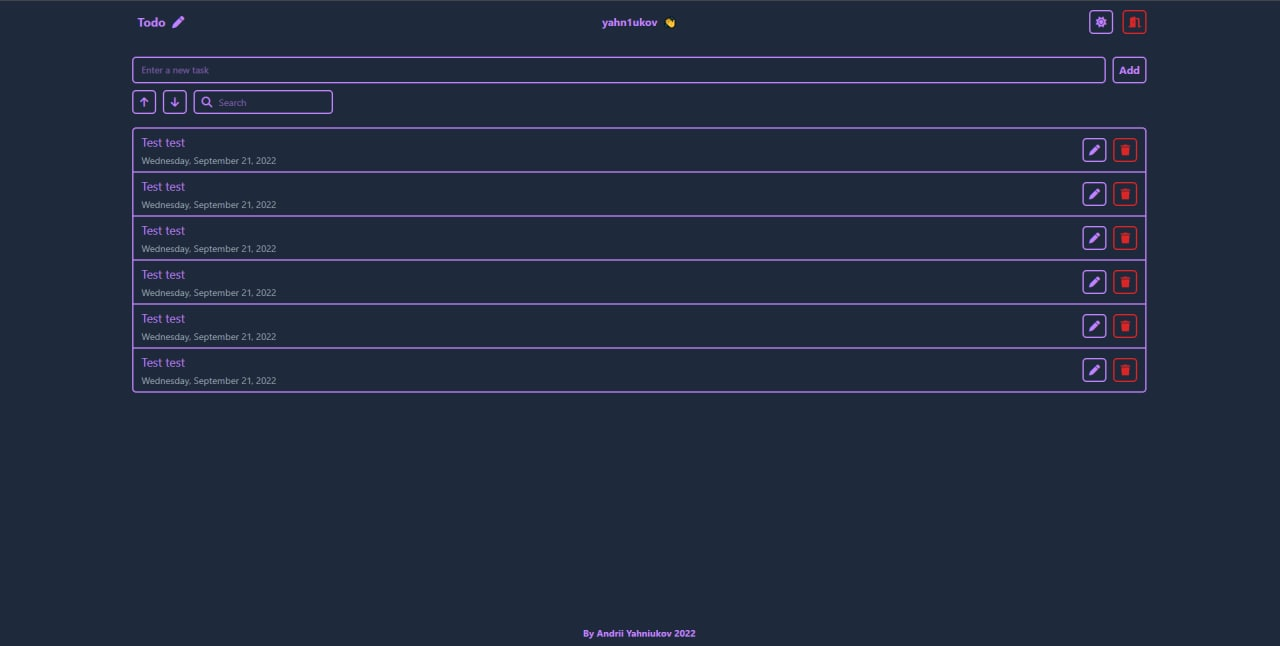
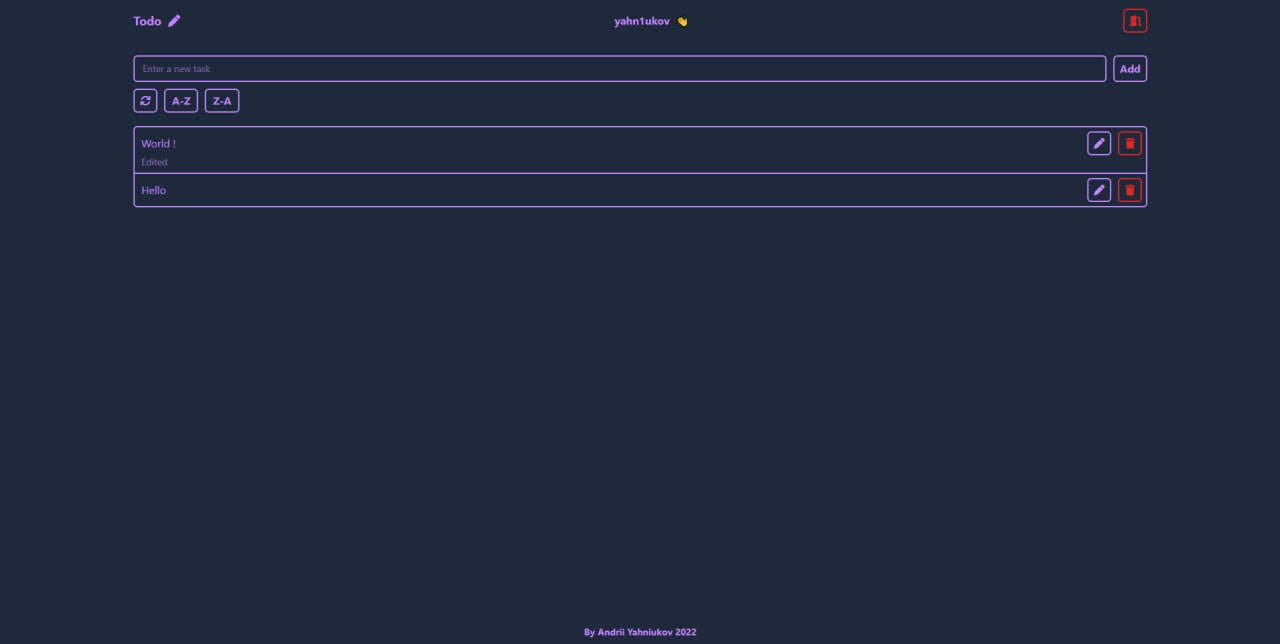
refactor: code review

Changed region(s): [[0.0938, 0.0, 0.9062, 0.6211], [0.4375, 0.9627, 0.5625, 0.9938]]

diff --git a/src/slices/todo.slice.ts b/src/slices/todo.slice.ts
@@ -21,28 +21,35 @@ const todoSlice = createSlice({
             state.todo = action.payload;
             state.error = null;
         },
+        todoSortedByAsc: (state, action) => {
+            state.loading = false;
+            state.todo = action.payload;
+            state.error = null;
+        },
+        todoSortedByDesc: (state, action) => {
+            state.loading = false;
+            state.todo = action.payload;
+            state.error = null;
+        },
         todoFetchedError: (state, action) => {
             state.loading = false;
             state.todo = [];
             state.error = action.payload;
         },
-        todoSortedByDesc: (state, action) => {
-            state.loading = false;
-            state.todo = action.payload.reverse();
-            state.error = null;
-        },
-        todoSearched: (state, aciton) => {
-
-        },
         todoCreated: (state, action) => {
             state.todo.push(action.payload);
         },
         todoEdited: (state, action) => {
-            state.todo = [
-                ...state.todo,
-                state.todo.find(t => t.id === action.payload.id)!.text = action.payload.text,
-                state.todo.find(t => t.id === action.payload.id)!.isEdited = action.payload.isEdited
-            ];
+            state.todo = state.todo.map(t => {
+                if (t.id === action.payload.id) {
+                    return {
+                        ...t,
+                        text: action.payload.text,
+                        isEdited: action.payload.isEdited
+                    }
+                }
+                return t;
+            });
         },
         todoDeleted: (state, action) => {
             state.todo = state.todo.filter(t => t.id !== action.payload);
@@ -57,8 +64,8 @@ export const {
     todoFetching,
     todoFetchedSuccess,
     todoFetchedError,
+    todoSortedByAsc,
     todoSortedByDesc,
-    todoSearched,
     todoCreated,
     todoEdited,
     todoDeleted

diff --git a/src/actions/todo.action.ts b/src/actions/todo.action.ts
@@ -1,5 +1,5 @@
 import { Dispatch } from "redux";
-import { todoFetching, todoFetchedSuccess, todoFetchedError } from "../slices/todo.slice";
+import { todoFetching, todoFetchedSuccess, todoFetchedError, todoSortedByAsc, todoSortedByDesc } from "../slices/todo.slice";
 import { TodoResponse } from '../types/todo';
 import { ErrorResponse } from '../types/error';
 
@@ -12,11 +12,20 @@ export const fetchTodo = (request: any, token: string) => async (dispatch: Dispa
         .catch((error: ErrorResponse) => dispatch(todoFetchedError(error)))
 }
 
-export const fetchTodoDesc = (request: any, token: string) => async (dispatch: Dispatch) => {
+export const fetchTodoSortedByAsc = (request: any, token: string) => async (dispatch: Dispatch) => {
+    dispatch(todoFetching())
+    await request('https://localhost:7066/api/todo/asc', 'GET', null, {
+        Authorization: `Bearer ${token}`
+    })
+        .then((data: TodoResponse[]) => dispatch(todoSortedByAsc(data)))
+        .catch((error: ErrorResponse) => dispatch(todoFetchedError(error)))
+}
+
+export const fetchTodoSortedByDesc = (request: any, token: string) => async (dispatch: Dispatch) => {
     dispatch(todoFetching())
     await request('https://localhost:7066/api/todo/desc', 'GET', null, {
         Authorization: `Bearer ${token}`
     })
-        .then((data: TodoResponse[]) => dispatch(todoFetchedSuccess(data)))
+        .then((data: TodoResponse[]) => dispatch(todoSortedByDesc(data)))
         .catch((error: ErrorResponse) => dispatch(todoFetchedError(error)))
 }

diff --git a/src/components/todo-btn-filter-desc/todo-btn-filter-desc.tsx b/src/components/todo-btn-filter-desc/todo-btn-filter-desc.tsx
@@ -1,19 +1,22 @@
+import { useContext } from 'react';
+import AuthenticationContext from "../../context/auth.context";
 import { useAppDispatch } from "../../hooks/dispatch.hook";
-import { useAppSelector } from "../../hooks/selector.hook";
-import { todoSortedByDesc } from '../../slices/todo.slice';
+import { useHttp } from "../../hooks/http.hook";
+import { fetchTodoSortedByDesc } from '../../actions/todo.action';
 
 const TodoBtnFilterDesc = () => {
     const dispatch = useAppDispatch();
-    const { todo } = useAppSelector(state => state.todo);
+    const { request } = useHttp();
+    const { token } = useContext(AuthenticationContext);
 
     return (
         <button
             title="Sort by descending"
             type="submit"
-            onClick={() => dispatch(todoSortedByDesc(todo))}
-            className="mr-2.5 border-2 transition border-purple-400 text-purple-400 rounded-md py-1 px-2.5 hover:bg-purple-400 hover:text-slate-800 focus:ring focus:ring-purple-400 focus:outline-none flex-none"
+            onClick={() => dispatch(fetchTodoSortedByDesc(request, token!))}
+            className="mr-2.5 font-bold border-2 transition border-purple-400 text-purple-400 rounded-md py-1 px-2.5 hover:bg-purple-400 hover:text-slate-800 focus:ring focus:ring-purple-400 focus:outline-none flex-none"
         >
-            <i className="fa-solid fa-arrow-down"></i>
+            Z-A
         </button>
     );
 }

diff --git a/src/components/todo-btn-filter-asc/todo-btn-filter-asc.tsx b/src/components/todo-btn-filter-asc/todo-btn-filter-asc.tsx
@@ -1,19 +1,22 @@
+import { useContext } from 'react';
 import { useAppDispatch } from "../../hooks/dispatch.hook";
-import { todoFetchedSuccess } from '../../slices/todo.slice';
-import { useAppSelector } from "../../hooks/selector.hook";
+import { useHttp } from "../../hooks/http.hook";
+import { fetchTodoSortedByAsc } from '../../actions/todo.action';
+import AuthenticationContext from "../../context/auth.context";
 
 const TodoBtnFilterAsc = () => {
     const dispatch = useAppDispatch();
-    const { todo } = useAppSelector(state => state.todo);
+    const { request } = useHttp();
+    const { token } = useContext(AuthenticationContext);
 
     return (
         <button
             title="Sort by ascending"
             type="submit"
-            onClick={() => dispatch(todoFetchedSuccess(todo))}
-            className="mr-2.5 border-2 transition border-purple-400 text-purple-400 rounded-md py-1 px-2.5 hover:bg-purple-400 hover:text-slate-800 focus:ring focus:ring-purple-400 focus:outline-none flex-none"
+            onClick={() => dispatch(fetchTodoSortedByAsc(request, token!))}
+            className="mr-2.5 border-2 font-bold transition border-purple-400 text-purple-400 rounded-md py-1 px-2.5 hover:bg-purple-400 hover:text-slate-800 focus:ring focus:ring-purple-400 focus:outline-none flex-none"
         >
-            <i className="fa-solid fa-arrow-up"></i>
+            A-Z
         </button>
     );
 }

diff --git a/src/components/todo-list-item/todo-list-item.tsx b/src/components/todo-list-item/todo-list-item.tsx
@@ -11,11 +11,10 @@ interface Props {
     id: string;
     text: string;
     isEdited: boolean;
-    date: Date;
     onDelete: () => Promise<void>
 }
 
-const TodoListItem = ({ id, text, isEdited, date, onDelete }: Props) => {
+const TodoListItem = ({ id, text, isEdited, onDelete }: Props) => {
     const initialValues: UpdateTodoRequest = {
         text
     }
@@ -56,10 +55,7 @@ const TodoListItem = ({ id, text, isEdited, date, onDelete }: Props) => {
                         </button>
                     </Form>
                 </Formik>
-                <div>
-                    {isEdited && <span className="text-sm mr-2.5">Edited</span>}
-                    <span className="text-sm text-gray-400">{new Date(date).toLocaleString()}</span>
-                </div>
+                {isEdited && <span className="text-sm opacity-70 mr-2.5">Edited</span>}
             </div>
             <div className="flex-none">
                 <TodoBtnDelete onDelete={onDelete} />

diff --git a/src/components/todo-create-form/todo-create-form.tsx b/src/components/todo-create-form/todo-create-form.tsx
@@ -1,4 +1,4 @@
-import { useContext } from "react";
+import { useContext, useId } from "react";
 import { Field, Form, Formik } from "formik";
 import { useHttp } from "../../hooks/http.hook";
 import { CreateTodoRequest } from "../../types/todo";
@@ -11,7 +11,7 @@ const TodoCreateForm = () => {
     const { request } = useHttp();
     const { token } = useContext(AuthenticationContext);
     const dispatch = useAppDispatch();
-
+    const id = useId();
     const initialValues: CreateTodoRequest = {
         text: ""
     };
@@ -20,7 +20,7 @@ const TodoCreateForm = () => {
         await request('https://localhost:7066/api/todo', 'POST', values, {
             Authorization: `Bearer ${token}`
         })
-            .then(() => dispatch(todoCreated(values)))
+            .then(() => dispatch(todoCreated({ ...values, id })))
             .catch((error: ErrorResponse) => console.log(error))
     }
 

diff --git a/src/components/todo-filter-panel/todo-filter-panel.tsx b/src/components/todo-filter-panel/todo-filter-panel.tsx
@@ -1,7 +1,6 @@
 import TodoBtnFilterAsc from "../todo-btn-filter-asc/todo-btn-filter-asc";
 import TodoBtnFilterDesc from "../todo-btn-filter-desc/todo-btn-filter-desc";
 import TodoBtnFilterRefresh from "../todo-btn-filter-refresh/todo-btn-filter-refresh";
-import TodoFilterSearch from "../todo-filter-search/todo-filter-search";
 
 const TodoFilterPanel = () => {
     return (
@@ -9,7 +8,6 @@ const TodoFilterPanel = () => {
             <TodoBtnFilterRefresh />
             <TodoBtnFilterAsc />
             <TodoBtnFilterDesc />
-            <TodoFilterSearch />
         </div>
     );
 }

diff --git a/src/components/app-navbar/app-navbar.tsx b/src/components/app-navbar/app-navbar.tsx
@@ -1,4 +1,3 @@
-import AppBtnBgLight from "../app-btn-bg-light/app-btn-bg-light";
 import UserBtnExit from "../user-btn-exit/user-btn-exit";
 import UserInfo from "../user-info/user-info";
 
@@ -20,7 +19,6 @@ const AppNavbar = ({ isAuth }: Props) => {
                 </div>
             }
             <div>
-                <AppBtnBgLight isAuth={isAuth} />
                 {
                     isAuth && <UserBtnExit />
                 }
